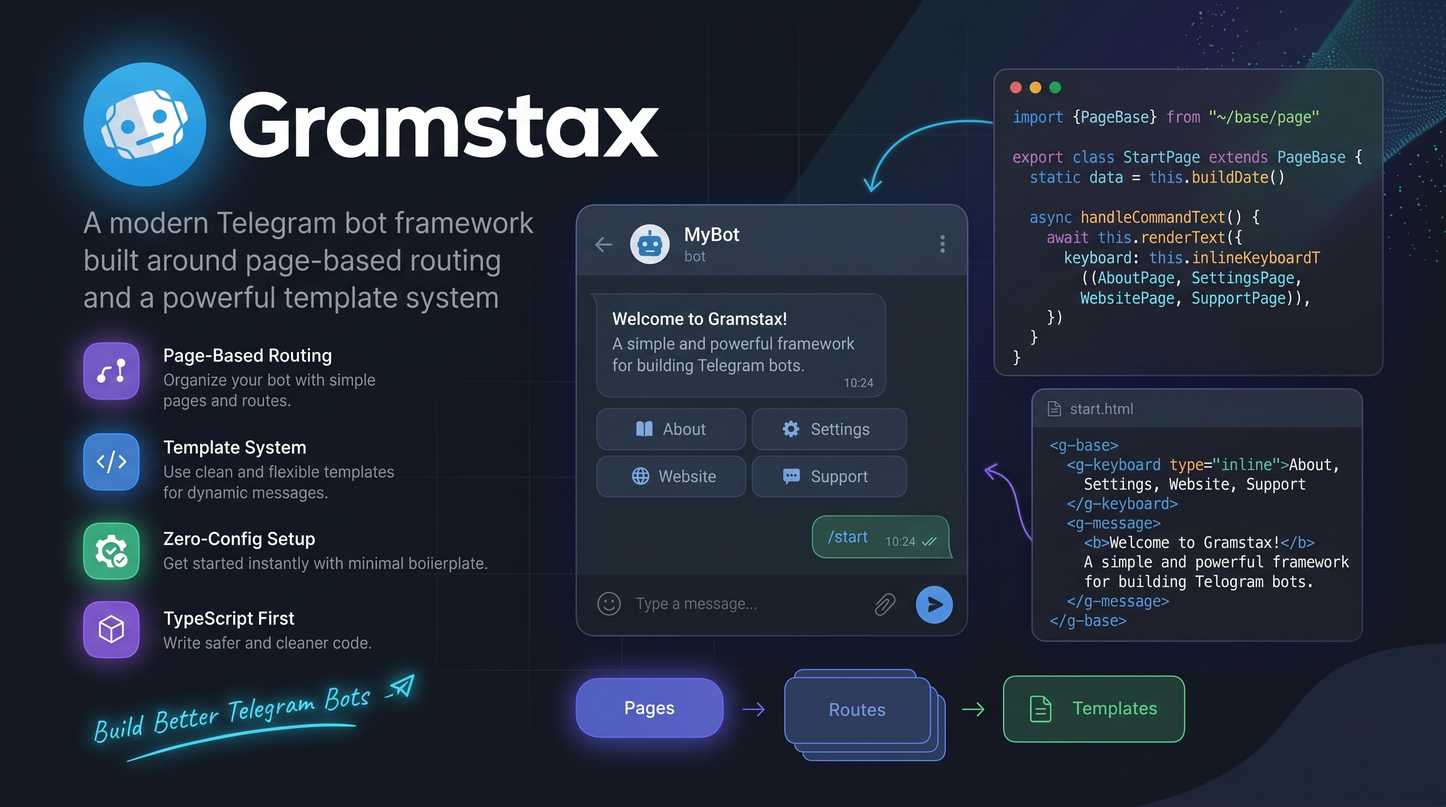
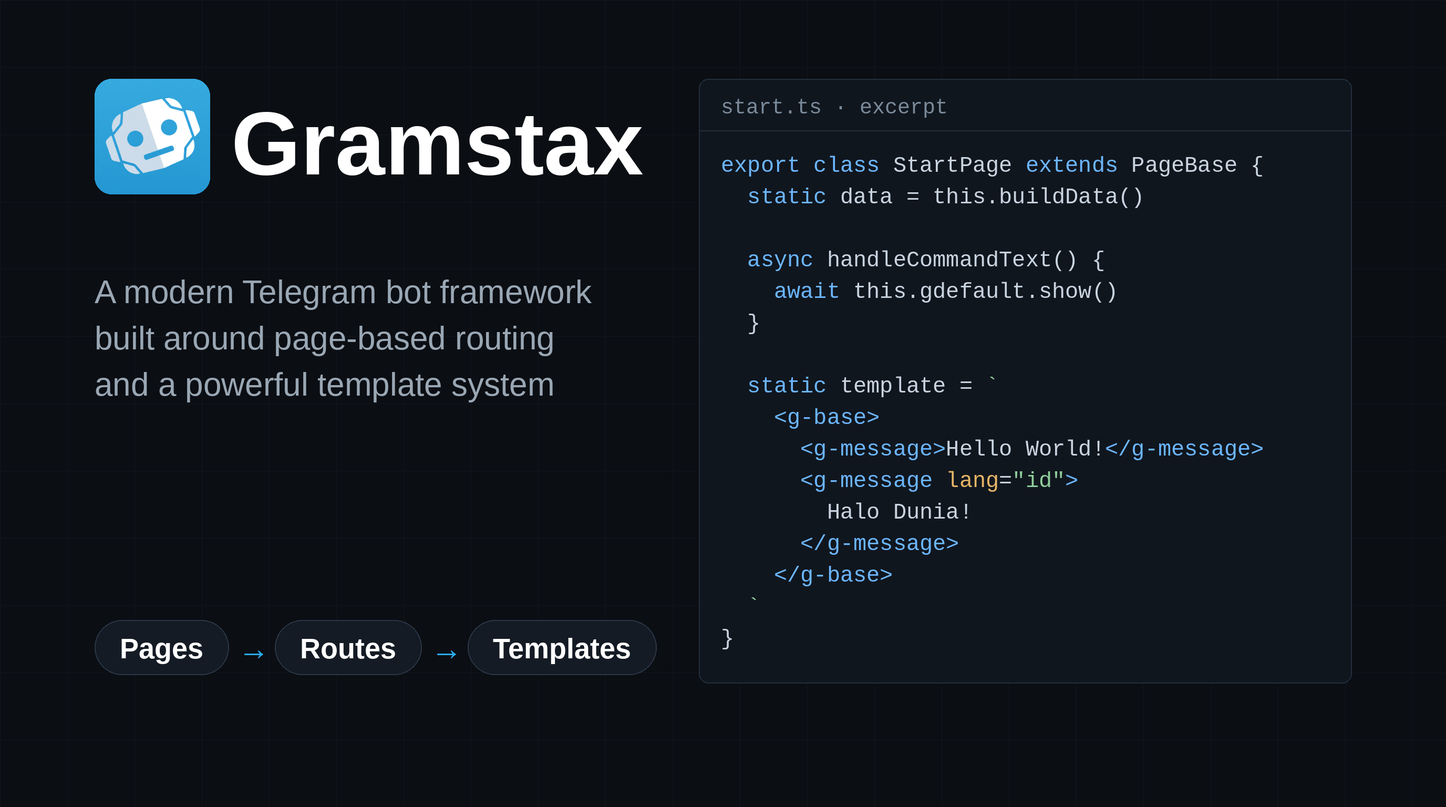
docs: code-built hero graphic, TypeScript 7.0.2, and README polish
- Hero: rebuild images/gramstax.png with a Pillow script
  (images/generate-hero.py) instead of the AI-generated image:
  flat shapes, the real logo mark, the README's own words, and a
  verbatim excerpt of the real StartPage. 3.9 MB -> 234 KB.
- Prerequisites: typescript ^6.0.3 -> 7.0.2, matching the pin in
  create-gramstax/templates.
- Against the usual approach: same facts, human voice (the pain
  named, the payoff named).
- License: remove the relicensing-history paragraphs; the section
  now states only the current licenses.

diff --git a/images/generate-hero.py b/images/generate-hero.py
@@ -1,0 +1,119 @@
+#!/usr/bin/env python3
+"""Generate images/gramstax.png — the README hero.
+
+Code-built, not AI-generated: flat shapes, the project's real logo mark,
+the README's own words, and a verbatim excerpt of the real StartPage from
+example/2-helloworld. No gradients, no glow, no fake UI, no hallucinated text.
+
+Regenerate: python3 images/generate-hero.py  (needs Pillow + the Liberation fonts)
+Output: images/gramstax.png, 2752x1536.
+"""
+from PIL import Image, ImageDraw, ImageFont
+
+W, H = 2752, 1536
+BG = (11, 14, 19)
+GRID = (18, 22, 29)
+PANEL = (16, 22, 30)
+BORDER = (35, 46, 61)
+WHITE = (255, 255, 255)
+MUTED = (154, 167, 180)
+CODE = (201, 212, 224)
+DIM = (122, 138, 154)
+BLUE = (108, 182, 255)
+GREEN = (143, 206, 155)
+AMBER = (229, 181, 103)
+ARROW = (42, 171, 238)
+
+FONT_DIR = "/usr/share/fonts/truetype/liberation"
+
+
+def font(name, size):
+    return ImageFont.truetype(f"{FONT_DIR}/{name}.ttf", size)
+
+
+SANS_BOLD = lambda s: font("LiberationSans-Bold", s)
+SANS = lambda s: font("LiberationSans-Regular", s)
+MONO = lambda s: font("LiberationMono-Regular", s)
+MONO_BOLD = lambda s: font("LiberationMono-Bold", s)
+
+img = Image.new("RGB", (W, H), BG)
+d = ImageDraw.Draw(img)
+
+# Faint graph-paper grid: flat 1px lines, no glow, no blobs.
+for x in range(0, W + 1, 128):
+    d.line([(x, 0), (x, H)], fill=GRID, width=1)
+for y in range(0, H + 1, 128):
+    d.line([(0, y), (W, y)], fill=GRID, width=1)
+
+# --- Left: real logo mark + wordmark + tagline (README's own words) ---
+logo = Image.open("/tmp/gramstax-avatar.png").convert("RGBA").resize((220, 220), Image.LANCZOS)
+mask = Image.new("L", (220, 220), 0)
+ImageDraw.Draw(mask).rounded_rectangle([0, 0, 219, 219], radius=32, fill=255)
+img.paste(logo, (180, 150), mask)
+
+wordmark = SANS_BOLD(170)
+d.text((440, 178), "Gramstax", font=wordmark, fill=WHITE)
+
+tag = SANS(62)
+tag_lines = [
+    "A modern Telegram bot framework",
+    "built around page-based routing",
+    "and a powerful template system",
+]
+y = 520
+for line in tag_lines:
+    d.text((180, y), line, font=tag, fill=MUTED)
+    y += 88
+
+# --- Left bottom: Pages -> Routes -> Templates, flat pills, no glow ---
+pill_font = SANS_BOLD(54)
+arrow_font = SANS_BOLD(60)
+pills = ["Pages", "Routes", "Templates"]
+x = 180
+py = 1180
+for i, label in enumerate(pills):
+    tw = d.textlength(label, font=pill_font)
+    pw = int(tw + 96)
+    d.rounded_rectangle([x, py, x + pw, py + 104], radius=52, fill=(20, 27, 36), outline=(42, 54, 70), width=2)
+    d.text((x + 48, py + 24), label, font=pill_font, fill=WHITE)
+    x += pw
+    if i < 2:
+        d.text((x + 18, py + 20), "→", font=arrow_font, fill=ARROW)
+        x += 88
+
+# --- Right: code panel with a verbatim excerpt of the real StartPage ---
+px0, py0, px1, py1 = 1330, 150, 2572, 1300
+d.rounded_rectangle([px0, py0, px1, py1], radius=18, fill=PANEL, outline=BORDER, width=2)
+d.text((1372, 182), "start.ts · excerpt", font=MONO(40), fill=DIM)
+d.line([(px0, 248), (px1, 248)], fill=BORDER, width=2)
+
+KW, ST, TG, AT, BS = BLUE, GREEN, BLUE, AMBER, CODE
+code_lines = [
+    [("export ", KW), ("class ", KW), ("StartPage ", BS), ("extends ", KW), ("PageBase ", BS), ("{", BS)],
+    [("  static ", KW), ("data ", BS), ("= ", BS), ("this.buildData()", BS)],
+    [],
+    [("  async ", KW), ("handleCommandText", BS), ("() {", BS)],
+    [("    await ", KW), ("this.gdefault.show()", BS)],
+    [("  }", BS)],
+    [],
+    [("  static ", KW), ("template ", BS), ("= ", BS), ("`", ST)],
+    [("    <g-base>", TG)],
+    [("      <g-message>", TG), ("Hello World!", BS), ("</g-message>", TG)],
+    [("      <g-message ", TG), ("lang", AT), ("=", BS), ('"id"', ST), (">", TG)],
+    [("        Halo Dunia!", BS)],
+    [("      </g-message>", TG)],
+    [("    </g-base>", TG)],
+    [("  `", ST)],
+    [("}", BS)],
+]
+mono = MONO(42)
+cy = 292
+for segments in code_lines:
+    cx = 1372
+    for text, color in segments:
+        d.text((cx, cy), text, font=mono, fill=color)
+        cx += d.textlength(text, font=mono)
+    cy += 60
+
+img.save("images/gramstax.png", optimize=True)
+print(f"saved images/gramstax.png {img.size}")

diff --git a/README.md b/README.md
@@ -61,12 +61,12 @@ That structure is what produces the differences below:
 
 | Area | The usual way | Here |
 | --- | --- | --- |
-| routing | every route registered by hand in one place | the file path *is* the route; naming a `handle*` method registers it |
-| markup and i18n | markup inside the API call, one branch per locale | one template; `<g-message lang="id">` sits beside `<g-message>`, and no handler branches |
-| send versus edit | read the update and choose | `mode: "auto"` reads it in one place |
-| impossible states | an options object assembled by hand | a union over real routes, `?: never` where a key is unreachable, re-checked at runtime |
-| nothing matched | silence | `noMatch`, `noHandler`, `blocked` and `dropped` counted |
-| server codegen | `new Function` at runtime | frozen ahead of time, asserted to hold zero codegen tokens |
+| routing | you register every route by hand, in one place, and keep the list in sync | drop a file in `src/pages` and you're done: the path *is* the route, and a `handle*` method registers itself |
+| markup and i18n | markup lives inside the API call, with a branch per locale in every handler | one template holds the text, buttons and media; a second language is a sibling `<g-message lang="id">`, not another branch in your code |
+| send versus edit | you read the update and choose, in every handler | `mode: "auto"` reads it once, in one place, so you write each screen a single time |
+| impossible states | an options object you assemble by hand, and nothing stops you passing a key the call never reads | a union over real routes: a key the route never reads is a compile error, re-checked at runtime |
+| nothing matched | nothing happens, the update just disappears | every miss is counted (`noMatch`, `noHandler`, `blocked`, `dropped`), so silence becomes a number you can watch |
+| server codegen | `new Function` runs at request time | templates freeze ahead of time, and a test proves zero codegen tokens survive |
 
 ## ✨ Features
 
@@ -173,7 +173,7 @@ That structure is what produces the differences below:
 `gramstax start --watch` is the dev loop; `gramstax start` is the production boot.
 
 - [Bun](https://bun.sh)
-- `typescript ^6.0.3` (peer dependency)
+- `typescript 7.0.2` (peer dependency)
 - A bot token from [@BotFather](https://t.me/BotFather)
 
 ### 2. Install and scaffold
@@ -1257,15 +1257,4 @@ If this project saves you time, you can support its development:
 
 Apache-2.0: Copyright (c) 2026 Gramstax. The four published packages carry `"license": "Apache-2.0"` in their `package.json`. See [LICENSE](https://github.com/gramstax/gramstax/blob/main/LICENSE).
 
-Published history is part of the record and is not rewritten. `gramstax@0.0.1`
-through `gramstax@0.3.19` (54 versions, November 2025 to January 2026) went out
-under **MIT**, and that grant is perpetual: it is not withdrawn by this
-relicensing. `gramstax@0.3.20` through `gramstax@5.0.0` were published under
-proprietary terms. Everything from `gramstax@6.0.0` onward is Apache-2.0.
-
-The same split applies to the other three packages: `create-gramstax` shares
-`gramstax`'s version line, and `@gramstax/lmdb` and `@gramstax/worker-thread`
-were published under proprietary terms until `6.0.0`.
-
-The scaffolder template is MIT, because the generated project's `package.json`
-and README badge already declared MIT.
+The scaffolder template is MIT.

diff --git a/packages/gramstax/README.md b/packages/gramstax/README.md
@@ -57,12 +57,12 @@ That structure is what produces the differences below:
 
 | Area | The usual way | Here |
 | --- | --- | --- |
-| routing | every route registered by hand in one place | the file path *is* the route; naming a `handle*` method registers it |
-| markup and i18n | markup inside the API call, one branch per locale | one template; `<g-message lang="id">` sits beside `<g-message>`, and no handler branches |
-| send versus edit | read the update and choose | `mode: "auto"` reads it in one place |
-| impossible states | an options object assembled by hand | a union over real routes, `?: never` where a key is unreachable, re-checked at runtime |
-| nothing matched | silence | `noMatch`, `noHandler`, `blocked` and `dropped` counted |
-| server codegen | `new Function` at runtime | frozen ahead of time, asserted to hold zero codegen tokens |
+| routing | you register every route by hand, in one place, and keep the list in sync | drop a file in `src/pages` and you're done: the path *is* the route, and a `handle*` method registers itself |
+| markup and i18n | markup lives inside the API call, with a branch per locale in every handler | one template holds the text, buttons and media; a second language is a sibling `<g-message lang="id">`, not another branch in your code |
+| send versus edit | you read the update and choose, in every handler | `mode: "auto"` reads it once, in one place, so you write each screen a single time |
+| impossible states | an options object you assemble by hand, and nothing stops you passing a key the call never reads | a union over real routes: a key the route never reads is a compile error, re-checked at runtime |
+| nothing matched | nothing happens, the update just disappears | every miss is counted (`noMatch`, `noHandler`, `blocked`, `dropped`), so silence becomes a number you can watch |
+| server codegen | `new Function` runs at request time | templates freeze ahead of time, and a test proves zero codegen tokens survive |
 
 ## ✨ Features
 
@@ -169,7 +169,7 @@ That structure is what produces the differences below:
 `gramstax start --watch` is the dev loop; `gramstax start` is the production boot.
 
 - [Bun](https://bun.sh)
-- `typescript ^6.0.3` (peer dependency)
+- `typescript 7.0.2` (peer dependency)
 - A bot token from [@BotFather](https://t.me/BotFather)
 
 ### 2. Install and scaffold
@@ -1199,15 +1199,4 @@ If this project saves you time, you can support its development:
 
 Apache-2.0: Copyright (c) 2026 Gramstax. The four published packages carry `"license": "Apache-2.0"` in their `package.json`. See [LICENSE](https://github.com/gramstax/gramstax/blob/main/LICENSE).
 
-Published history is part of the record and is not rewritten. `gramstax@0.0.1`
-through `gramstax@0.3.19` (54 versions, November 2025 to January 2026) went out
-under **MIT**, and that grant is perpetual: it is not withdrawn by this
-relicensing. `gramstax@0.3.20` through `gramstax@5.0.0` were published under
-proprietary terms. Everything from `gramstax@6.0.0` onward is Apache-2.0.
-
-The same split applies to the other three packages: `create-gramstax` shares
-`gramstax`'s version line, and `@gramstax/lmdb` and `@gramstax/worker-thread`
-were published under proprietary terms until `6.0.0`.
-
-The scaffolder template is MIT, because the generated project's `package.json`
-and README badge already declared MIT.
+The scaffolder template is MIT.
